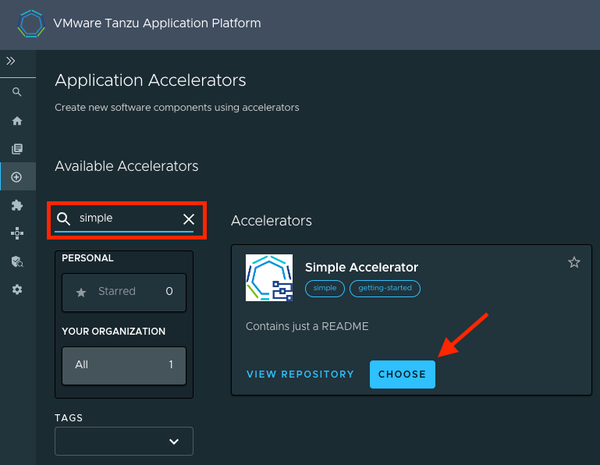
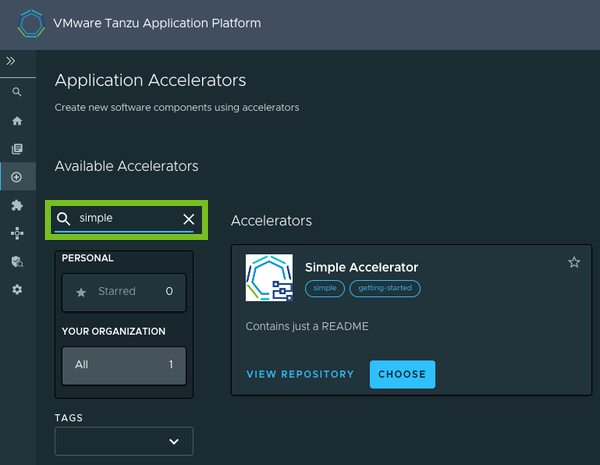
[TAAP-2000] Remove redundant images and improve others

Changed region(s): [[0.06, 0.4215, 0.36, 0.5419], [0.72, 0.6624, 0.81, 0.7828]]

diff --git a/getting-started/create-app-accelerator.hbs.md b/getting-started/create-app-accelerator.hbs.md
@@ -34,7 +34,10 @@ instance.
 
 ## <a id="create-simple-project"></a>Create a simple project
 
-### Set up the project directory
+To create your project, follow these instructions to set up the project directory, prepare the
+`README.md` and `accelerator.yaml`, and test your accelerator.
+
+### <a id="set-up-directory"></a> Set up the project directory
 
 1. Create a new directory for the project named `myProject` and change to the newly created
    directory.
@@ -208,34 +211,29 @@ project residing inside a Git repository. For this example, [GitHub](https://git
 
 ## <a id="register-accelerator"></a>Register the accelerator to the Tanzu Application Platform and verify project generation output
 
-Now that the accelerator is committed to its own repository, the accelerator can be registered to
-Tanzu Application Platform GUI for developers to generate projects from the newly created
-accelerator.
+Now that the accelerator is committed to its own repository, you can register the accelerator to
+Tanzu Application Platform GUI for developers to generate projects from the newly created accelerator.
 
-1. **Using the URL of the Git repository and branch name created earlier**, run the following
-   command using the Tanzu CLI to register the accelerator to Tanzu Application Platform GUI.
+To do so, use the URL of the Git repository and branch name created earlier and run the following
+command using the Tanzu CLI to register the accelerator to Tanzu Application Platform GUI.
 
-    > **Note** `tanzu accelerator create` works with monorepositories as well. Add the
-    > `--git-sub-path` parameter with the desired subpath to fetch the accelerator project in that
-    > directory. For more information, see [tanzu accelerator
-    > create](../cli-plugins/accelerator/command-reference/tanzu_accelerator_create.hbs.md).
+> **Note** `tanzu accelerator create` works with monorepos as well. Add the
+> `--git-sub-path` parameter with the desired subpath to fetch the accelerator project in that
+> directory. For more information, see [tanzu accelerator
+> create](../cli-plugins/accelerator/command-reference/tanzu_accelerator_create.hbs.md).
 
-    ```bash
-    tanzu accelerator create simple-accelerator --git-repository https://github.com/myusername/myprojectrepository --git-branch main
-    ```
+```bash
+tanzu accelerator create simple-accelerator --git-repository https://github.com/myusername/myprojectrepository --git-branch main
+```
 
-    The accelerator can take time to reconcile. After it has reconciled, it is available for use in
-    Tanzu Application Platform GUI and the Application Accelerator extension for Visual Studio Code.
+The accelerator can take time to reconcile. After it has reconciled, it is available for use in
+Tanzu Application Platform GUI and the Application Accelerator extension for Visual Studio Code.
 
 ## Verify project generation output by using Tanzu Application Platform GUI
 
 1. Navigate to your organization's instance of Tanzu Application Platform GUI.
 
-    ![Home screen image of Tanzu Application Platform GUI.](../images/app-accelerator/getting-started-1-1.png)
-
 2. On the left navigation pane, click **Create**.
-
-    ![Image of highlighting the Create button in Tanzu Application Platform GUI.](../images/app-accelerator/getting-started-1-2.png)
 
 3. Using the search bar near the left side of the page, search for `simple accelerator`. After
    you've found it, click **Choose** on the accelerator card.

diff --git a/getting-started/deploy-first-app.hbs.md b/getting-started/deploy-first-app.hbs.md
@@ -109,19 +109,17 @@ In this example, you use the `Tanzu-Java-Web-App` accelerator. You also use Tanz
 
     Alternatively, you can add a link to the `catalog-info.yaml` to the `tap-values.yaml` configuration file in the `tap_gui.app_config.catalog.locations` section. See [Installing the Tanzu Application Platform Package and Profiles](../install-online/profile.hbs.md#full-profile).
 
-2. **Register an existing component** prompts you to type a repository URL.
+1. **Register an existing component** prompts you to type a repository URL.
 Type the link to the `catalog-info.yaml` file of the tanzu-java-web-app in the Git repository text box. For example,
 `https://github.com/USERNAME/PROJECTNAME/blob/main/catalog-info.yaml`.
 
-1. Click **ANALYZE**.
-
     ![Screenshot of the page to register an existing component, showing Repository URL text box and Analyze button.](../images/getting-started-tap-gui-6.png)
 
-2. Review the catalog entities to be added and click **IMPORT**.
+1. Click **ANALYZE**.
 
-    ![Screenshot of page for reviewing catalog entities to be added, showing entity details and Import button.](../images/getting-started-tap-gui-7.png)
+1. Review the catalog entities to be added and click **IMPORT**.
 
-3. Navigate back to the home page. The catalog changes and entries are visible for further inspection.
+1. Navigate back to the home page. The catalog changes and entries are visible for further inspection.
 
 >**Note** If your Tanzu Application Platform GUI instance does not have a [PostgreSQL](../tap-gui/database.md) database configured, the `catalog-info.yaml` location must be re-registered after the instance is restarted or upgraded.
 
